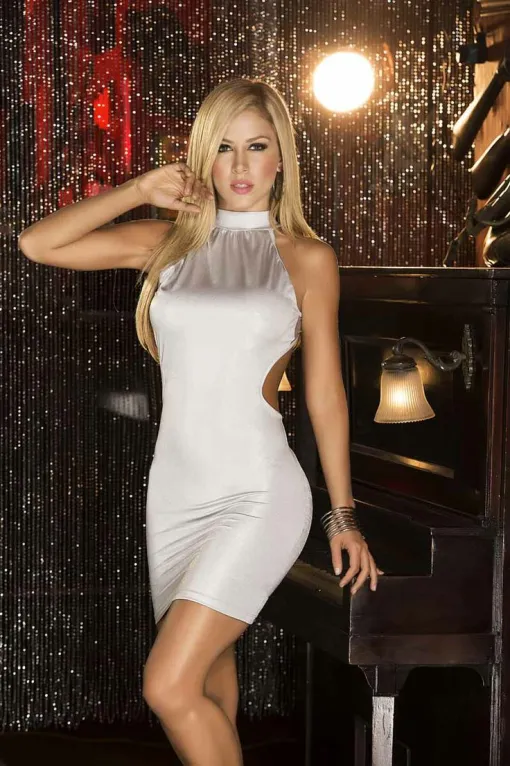
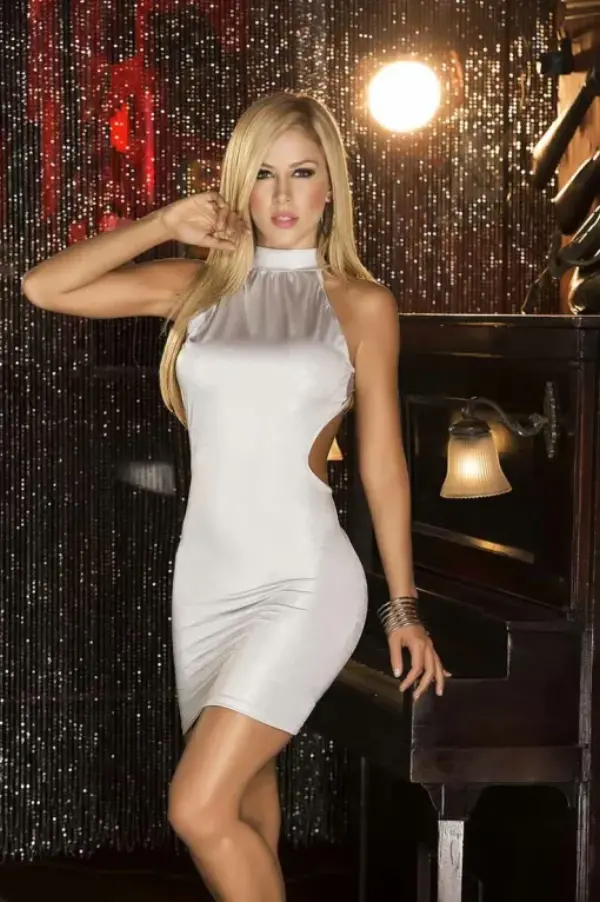
Perf + SEO pass: async fonts, defer JS, compress images, sitemap, robots, hreflang, hours fix
- Google Fonts load async (saves ~1000ms render-blocking)
- defer on all script tags (reduces TBT)
- dancer-jade: 225KB -> 35KB, dancer-sofia: 230KB -> 15KB
- sitemap.xml and robots.txt added
- hreflang ES/EN/x-default on all pages
- hours-row fixed column width (times now align on mobile)
- Removed #17 ranking from visita.html

diff --git a/visita.html b/visita.html
@@ -20,6 +20,9 @@
   <meta name="twitter:description" content="Calle 13, Ferrocarrilera. Llama o reserva tu mesa. 7 PM a 3 AM, todas las noches." />
   <meta name="twitter:image" content="https://neonframewebdev.github.io/bar-guau-guau/assets/og-card.jpg" />
 
+  <link rel="alternate" hreflang="es" href="https://neonframewebdev.github.io/bar-guau-guau/visita.html" />
+  <link rel="alternate" hreflang="en" href="https://neonframewebdev.github.io/bar-guau-guau/visita.html" />
+  <link rel="alternate" hreflang="x-default" href="https://neonframewebdev.github.io/bar-guau-guau/visita.html" />
   <link rel="canonical" href="https://neonframewebdev.github.io/bar-guau-guau/visita.html" />
   <meta name="theme-color" content="#0A0A0A" />
 
@@ -27,7 +30,9 @@
 
   <link rel="preconnect" href="https://fonts.googleapis.com" />
   <link rel="preconnect" href="https://fonts.gstatic.com" crossorigin />
-  <link href="https://fonts.googleapis.com/css2?family=Bebas+Neue&family=Inter:wght@400;600&display=swap" rel="stylesheet" />
+  <link rel="preload" as="style" href="https://fonts.googleapis.com/css2?family=Bebas+Neue&family=Inter:wght@400;600&display=swap" />
+  <link rel="stylesheet" href="https://fonts.googleapis.com/css2?family=Bebas+Neue&family=Inter:wght@400;600&display=swap" media="print" onload="this.media='all'" />
+  <noscript><link rel="stylesheet" href="https://fonts.googleapis.com/css2?family=Bebas+Neue&family=Inter:wght@400;600&display=swap" /></noscript>
 
   <link rel="stylesheet" href="css/style.css" />
 </head>
@@ -132,12 +137,6 @@
           </div>
         </div>
 
-        <p class="contacto-credibility"
-           data-es="#17 de 264 bares en Puerto Pe&ntilde;asco. 4.1/5 en Google."
-           data-en="Ranked #17 of 264 bars in Puerto Pe&ntilde;asco. 4.1/5 on Google.">
-          #17 de 264 bares en Puerto Pe&ntilde;asco. 4.1/5 en Google.
-        </p>
-
         <a href="tel:+526121371790" class="btn-primary-lg"
            data-es="RESERVAR MESA" data-en="RESERVE A TABLE">RESERVAR MESA</a>
 
@@ -213,7 +212,7 @@
     </div>
   </footer>
 
-  <script src="js/i18n.js"></script>
-  <script src="js/main.js"></script>
+  <script src="js/i18n.js" defer></script>
+  <script src="js/main.js" defer></script>
 </body>
 </html>

diff --git a/eventos.html b/eventos.html
@@ -20,6 +20,9 @@
   <meta name="twitter:description" content="Bike Night, Noche de Damas, DJ los fines de semana. Algo pasa cada noche." />
   <meta name="twitter:image" content="https://neonframewebdev.github.io/bar-guau-guau/assets/og-card.jpg" />
 
+  <link rel="alternate" hreflang="es" href="https://neonframewebdev.github.io/bar-guau-guau/eventos.html" />
+  <link rel="alternate" hreflang="en" href="https://neonframewebdev.github.io/bar-guau-guau/eventos.html" />
+  <link rel="alternate" hreflang="x-default" href="https://neonframewebdev.github.io/bar-guau-guau/eventos.html" />
   <link rel="canonical" href="https://neonframewebdev.github.io/bar-guau-guau/eventos.html" />
   <meta name="theme-color" content="#0A0A0A" />
 
@@ -27,7 +30,9 @@
 
   <link rel="preconnect" href="https://fonts.googleapis.com" />
   <link rel="preconnect" href="https://fonts.gstatic.com" crossorigin />
-  <link href="https://fonts.googleapis.com/css2?family=Bebas+Neue&family=Inter:wght@400;600&display=swap" rel="stylesheet" />
+  <link rel="preload" as="style" href="https://fonts.googleapis.com/css2?family=Bebas+Neue&family=Inter:wght@400;600&display=swap" />
+  <link rel="stylesheet" href="https://fonts.googleapis.com/css2?family=Bebas+Neue&family=Inter:wght@400;600&display=swap" media="print" onload="this.media='all'" />
+  <noscript><link rel="stylesheet" href="https://fonts.googleapis.com/css2?family=Bebas+Neue&family=Inter:wght@400;600&display=swap" /></noscript>
 
   <link rel="stylesheet" href="css/style.css" />
 </head>
@@ -297,8 +302,8 @@
     </div>
   </footer>
 
-  <script src="js/i18n.js"></script>
-  <script src="js/main.js"></script>
+  <script src="js/i18n.js" defer></script>
+  <script src="js/main.js" defer></script>
 
   <script>
     // Wire saturday/sunday to also trigger the weekend card

diff --git a/nosotros.html b/nosotros.html
@@ -20,6 +20,9 @@
   <meta name="twitter:description" content="A&ntilde;os de noches en Puerto Pe&ntilde;asco. Espect&aacute;culos en vivo cada noche." />
   <meta name="twitter:image" content="https://neonframewebdev.github.io/bar-guau-guau/assets/og-card.jpg" />
 
+  <link rel="alternate" hreflang="es" href="https://neonframewebdev.github.io/bar-guau-guau/nosotros.html" />
+  <link rel="alternate" hreflang="en" href="https://neonframewebdev.github.io/bar-guau-guau/nosotros.html" />
+  <link rel="alternate" hreflang="x-default" href="https://neonframewebdev.github.io/bar-guau-guau/nosotros.html" />
   <link rel="canonical" href="https://neonframewebdev.github.io/bar-guau-guau/nosotros.html" />
   <meta name="theme-color" content="#0A0A0A" />
 
@@ -27,7 +30,9 @@
 
   <link rel="preconnect" href="https://fonts.googleapis.com" />
   <link rel="preconnect" href="https://fonts.gstatic.com" crossorigin />
-  <link href="https://fonts.googleapis.com/css2?family=Bebas+Neue&family=Inter:wght@400;600&display=swap" rel="stylesheet" />
+  <link rel="preload" as="style" href="https://fonts.googleapis.com/css2?family=Bebas+Neue&family=Inter:wght@400;600&display=swap" />
+  <link rel="stylesheet" href="https://fonts.googleapis.com/css2?family=Bebas+Neue&family=Inter:wght@400;600&display=swap" media="print" onload="this.media='all'" />
+  <noscript><link rel="stylesheet" href="https://fonts.googleapis.com/css2?family=Bebas+Neue&family=Inter:wght@400;600&display=swap" /></noscript>
 
   <link rel="stylesheet" href="css/style.css" />
 </head>
@@ -212,7 +217,7 @@
     </div>
   </footer>
 
-  <script src="js/i18n.js"></script>
-  <script src="js/main.js"></script>
+  <script src="js/i18n.js" defer></script>
+  <script src="js/main.js" defer></script>
 </body>
 </html>

diff --git a/chicas.html b/chicas.html
@@ -20,6 +20,9 @@
   <meta name="twitter:description" content="Espect&aacute;culos en vivo cada noche. Calle 13, Puerto Pe&ntilde;asco." />
   <meta name="twitter:image" content="https://neonframewebdev.github.io/bar-guau-guau/assets/og-card.jpg" />
 
+  <link rel="alternate" hreflang="es" href="https://neonframewebdev.github.io/bar-guau-guau/chicas.html" />
+  <link rel="alternate" hreflang="en" href="https://neonframewebdev.github.io/bar-guau-guau/chicas.html" />
+  <link rel="alternate" hreflang="x-default" href="https://neonframewebdev.github.io/bar-guau-guau/chicas.html" />
   <link rel="canonical" href="https://neonframewebdev.github.io/bar-guau-guau/chicas.html" />
   <meta name="theme-color" content="#0A0A0A" />
 
@@ -27,7 +30,9 @@
 
   <link rel="preconnect" href="https://fonts.googleapis.com" />
   <link rel="preconnect" href="https://fonts.gstatic.com" crossorigin />
-  <link href="https://fonts.googleapis.com/css2?family=Bebas+Neue&family=Inter:wght@400;600&display=swap" rel="stylesheet" />
+  <link rel="preload" as="style" href="https://fonts.googleapis.com/css2?family=Bebas+Neue&family=Inter:wght@400;600&display=swap" />
+  <link rel="stylesheet" href="https://fonts.googleapis.com/css2?family=Bebas+Neue&family=Inter:wght@400;600&display=swap" media="print" onload="this.media='all'" />
+  <noscript><link rel="stylesheet" href="https://fonts.googleapis.com/css2?family=Bebas+Neue&family=Inter:wght@400;600&display=swap" /></noscript>
 
   <link rel="stylesheet" href="css/style.css" />
 </head>
@@ -253,7 +258,7 @@
     </div>
   </footer>
 
-  <script src="js/i18n.js"></script>
-  <script src="js/main.js"></script>
+  <script src="js/i18n.js" defer></script>
+  <script src="js/main.js" defer></script>
 </body>
 </html>

diff --git a/bebidas.html b/bebidas.html
@@ -20,6 +20,9 @@
   <meta name="twitter:description" content="Cubetas, cocteles, mezcal y servicio de botella en Rocky Point." />
   <meta name="twitter:image" content="https://neonframewebdev.github.io/bar-guau-guau/assets/og-card.jpg" />
 
+  <link rel="alternate" hreflang="es" href="https://neonframewebdev.github.io/bar-guau-guau/bebidas.html" />
+  <link rel="alternate" hreflang="en" href="https://neonframewebdev.github.io/bar-guau-guau/bebidas.html" />
+  <link rel="alternate" hreflang="x-default" href="https://neonframewebdev.github.io/bar-guau-guau/bebidas.html" />
   <link rel="canonical" href="https://neonframewebdev.github.io/bar-guau-guau/bebidas.html" />
   <meta name="theme-color" content="#0A0A0A" />
 
@@ -27,7 +30,9 @@
 
   <link rel="preconnect" href="https://fonts.googleapis.com" />
   <link rel="preconnect" href="https://fonts.gstatic.com" crossorigin />
-  <link href="https://fonts.googleapis.com/css2?family=Bebas+Neue&family=Inter:wght@400;600&display=swap" rel="stylesheet" />
+  <link rel="preload" as="style" href="https://fonts.googleapis.com/css2?family=Bebas+Neue&family=Inter:wght@400;600&display=swap" />
+  <link rel="stylesheet" href="https://fonts.googleapis.com/css2?family=Bebas+Neue&family=Inter:wght@400;600&display=swap" media="print" onload="this.media='all'" />
+  <noscript><link rel="stylesheet" href="https://fonts.googleapis.com/css2?family=Bebas+Neue&family=Inter:wght@400;600&display=swap" /></noscript>
 
   <link rel="stylesheet" href="css/style.css" />
 </head>
@@ -325,7 +330,7 @@
     </div>
   </footer>
 
-  <script src="js/i18n.js"></script>
-  <script src="js/main.js"></script>
+  <script src="js/i18n.js" defer></script>
+  <script src="js/main.js" defer></script>
 </body>
 </html>

diff --git a/index.html b/index.html
@@ -24,6 +24,9 @@
   <meta name="twitter:image" content="https://neonframewebdev.github.io/bar-guau-guau/assets/og-card.jpg" />
 
   <!-- Canonical + theme -->
+  <link rel="alternate" hreflang="es" href="https://neonframewebdev.github.io/bar-guau-guau/" />
+  <link rel="alternate" hreflang="en" href="https://neonframewebdev.github.io/bar-guau-guau/" />
+  <link rel="alternate" hreflang="x-default" href="https://neonframewebdev.github.io/bar-guau-guau/" />
   <link rel="canonical" href="https://neonframewebdev.github.io/bar-guau-guau/" />
   <meta name="theme-color" content="#0A0A0A" />
 
@@ -65,7 +68,9 @@
   <!-- Fonts -->
   <link rel="preconnect" href="https://fonts.googleapis.com" />
   <link rel="preconnect" href="https://fonts.gstatic.com" crossorigin />
-  <link href="https://fonts.googleapis.com/css2?family=Bebas+Neue&family=Inter:wght@400;600&display=swap" rel="stylesheet" />
+  <link rel="preload" as="style" href="https://fonts.googleapis.com/css2?family=Bebas+Neue&family=Inter:wght@400;600&display=swap" />
+  <link rel="stylesheet" href="https://fonts.googleapis.com/css2?family=Bebas+Neue&family=Inter:wght@400;600&display=swap" media="print" onload="this.media='all'" />
+  <noscript><link rel="stylesheet" href="https://fonts.googleapis.com/css2?family=Bebas+Neue&family=Inter:wght@400;600&display=swap" /></noscript>
 
   <!-- Styles -->
   <link rel="stylesheet" href="css/style.css" />
@@ -433,7 +438,7 @@
   </footer>
 
   <!-- Scripts -->
-  <script src="js/i18n.js"></script>
-  <script src="js/main.js"></script>
+  <script src="js/i18n.js" defer></script>
+  <script src="js/main.js" defer></script>
 </body>
 </html>

diff --git a/css/style.css b/css/style.css
@@ -1265,7 +1265,7 @@ nav.scrolled {
 
 .hours-row {
   display: grid;
-  grid-template-columns: auto 1fr;
+  grid-template-columns: 110px auto;
   gap: 0.5rem 1.5rem;
   font-family: var(--font-body);
   font-weight: 600;
